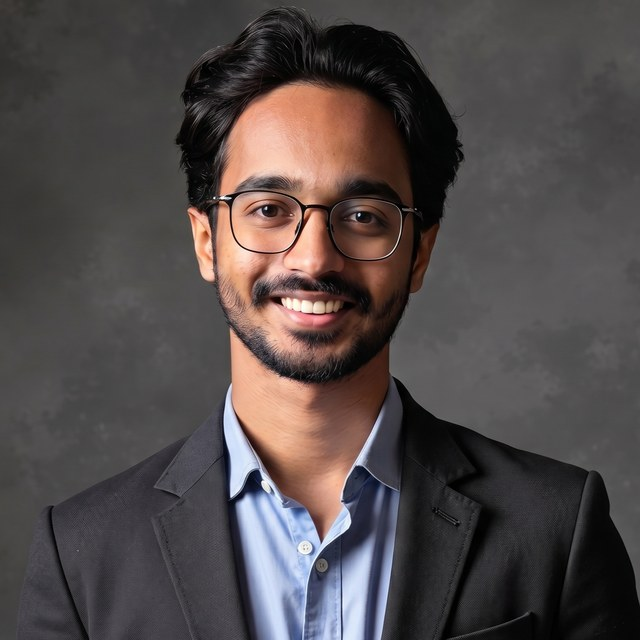
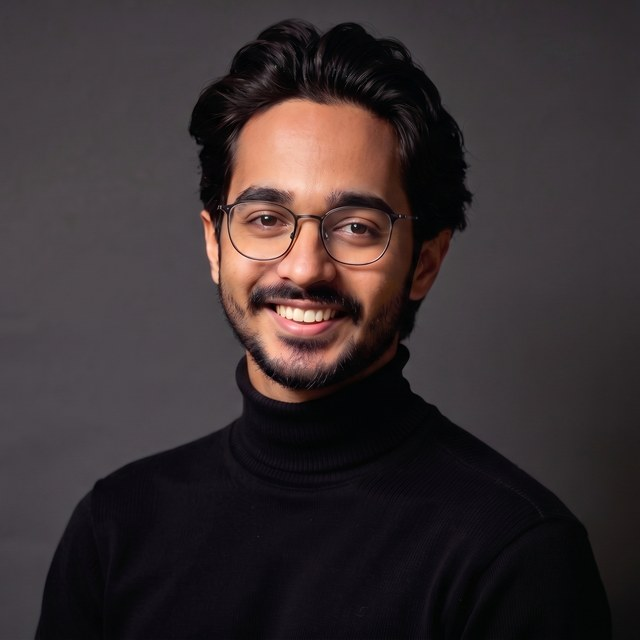
v5.9 profile photo: Joyal-spec 200px circle wrapper (overflow hidden, thin ring), vertically centered; swapped to pic_2 turtleneck portrait

diff --git a/index.html b/index.html
@@ -106,10 +106,11 @@ text-transform:uppercase;transition:border-color .2s ease,transform .15s ease}
 .js.booted .hf{animation:rise .55s ease forwards}
 @keyframes rise{from{opacity:0;transform:translateY(26px)}to{opacity:1;transform:none}}
 /* about: photo + statement + education + certs */
-.aboutgrid{display:grid;grid-template-columns:minmax(220px,330px) 1fr;
-gap:clamp(36px,5vw,76px);align-items:start}
-.pphoto{width:100%;max-width:320px;aspect-ratio:1/1;border-radius:50%;
-object-fit:cover;display:block;margin:0 auto}
+.aboutgrid{display:grid;grid-template-columns:minmax(220px,420px) 1fr;
+gap:clamp(36px,5vw,80px);align-items:center}
+.pwrap{width:200px;height:200px;border-radius:50%;overflow:hidden;
+flex:none;border:2px solid #222;margin:0 auto}
+.pphoto{width:100%;height:100%;object-fit:cover;display:block}
 .lead{font-family:Syne,"Arial Black",sans-serif;font-weight:700;
 font-size:clamp(26px,3.6vw,46px);line-height:1.1;letter-spacing:-.01em}
 .lead em{font-style:normal;color:var(--acc)}
@@ -245,7 +246,6 @@ transition:opacity .6s ease,transform .6s ease}
   html{scroll-behavior:auto}}
 @media (max-width:860px){
   .aboutgrid{grid-template-columns:1fr;gap:36px}
-  .pphoto{max-width:220px}
   .chap{grid-template-columns:1fr;gap:20px;padding:44px 0}
   .chap.alt .ctext{order:1}
   .chap.alt .cvid,.chap.alt .confpanel{order:2}
@@ -278,7 +278,7 @@ transition:opacity .6s ease,transform .6s ease}
 
 <section id="about">
   <div class="aboutgrid">
-    <div class="reveal"><img class="pphoto" src="assets/photo.jpg"
+    <div class="pwrap reveal"><img class="pphoto" src="assets/photo.jpg"
       alt="Jatin Satyam" width="640" height="640"></div>
     <div class="reveal">
       <p class="lead">I build machines that move and <em>think</em>.</p>

diff --git a/dobot.html b/dobot.html
@@ -105,10 +105,11 @@ text-transform:uppercase;transition:border-color .2s ease,transform .15s ease}
 .js.booted .hf{animation:rise .55s ease forwards}
 @keyframes rise{from{opacity:0;transform:translateY(26px)}to{opacity:1;transform:none}}
 /* about: photo + statement + education + certs */
-.aboutgrid{display:grid;grid-template-columns:minmax(220px,330px) 1fr;
-gap:clamp(36px,5vw,76px);align-items:start}
-.pphoto{width:100%;max-width:320px;aspect-ratio:1/1;border-radius:50%;
-object-fit:cover;display:block;margin:0 auto}
+.aboutgrid{display:grid;grid-template-columns:minmax(220px,420px) 1fr;
+gap:clamp(36px,5vw,80px);align-items:center}
+.pwrap{width:200px;height:200px;border-radius:50%;overflow:hidden;
+flex:none;border:2px solid #222;margin:0 auto}
+.pphoto{width:100%;height:100%;object-fit:cover;display:block}
 .lead{font-family:Syne,"Arial Black",sans-serif;font-weight:700;
 font-size:clamp(26px,3.6vw,46px);line-height:1.1;letter-spacing:-.01em}
 .lead em{font-style:normal;color:var(--acc)}
@@ -244,7 +245,6 @@ transition:opacity .6s ease,transform .6s ease}
   html{scroll-behavior:auto}}
 @media (max-width:860px){
   .aboutgrid{grid-template-columns:1fr;gap:36px}
-  .pphoto{max-width:220px}
   .chap{grid-template-columns:1fr;gap:20px;padding:44px 0}
   .chap.alt .ctext{order:1}
   .chap.alt .cvid,.chap.alt .confpanel{order:2}

diff --git a/mambo.html b/mambo.html
@@ -105,10 +105,11 @@ text-transform:uppercase;transition:border-color .2s ease,transform .15s ease}
 .js.booted .hf{animation:rise .55s ease forwards}
 @keyframes rise{from{opacity:0;transform:translateY(26px)}to{opacity:1;transform:none}}
 /* about: photo + statement + education + certs */
-.aboutgrid{display:grid;grid-template-columns:minmax(220px,330px) 1fr;
-gap:clamp(36px,5vw,76px);align-items:start}
-.pphoto{width:100%;max-width:320px;aspect-ratio:1/1;border-radius:50%;
-object-fit:cover;display:block;margin:0 auto}
+.aboutgrid{display:grid;grid-template-columns:minmax(220px,420px) 1fr;
+gap:clamp(36px,5vw,80px);align-items:center}
+.pwrap{width:200px;height:200px;border-radius:50%;overflow:hidden;
+flex:none;border:2px solid #222;margin:0 auto}
+.pphoto{width:100%;height:100%;object-fit:cover;display:block}
 .lead{font-family:Syne,"Arial Black",sans-serif;font-weight:700;
 font-size:clamp(26px,3.6vw,46px);line-height:1.1;letter-spacing:-.01em}
 .lead em{font-style:normal;color:var(--acc)}
@@ -244,7 +245,6 @@ transition:opacity .6s ease,transform .6s ease}
   html{scroll-behavior:auto}}
 @media (max-width:860px){
   .aboutgrid{grid-template-columns:1fr;gap:36px}
-  .pphoto{max-width:220px}
   .chap{grid-template-columns:1fr;gap:20px;padding:44px 0}
   .chap.alt .ctext{order:1}
   .chap.alt .cvid,.chap.alt .confpanel{order:2}

diff --git a/space.html b/space.html
@@ -105,10 +105,11 @@ text-transform:uppercase;transition:border-color .2s ease,transform .15s ease}
 .js.booted .hf{animation:rise .55s ease forwards}
 @keyframes rise{from{opacity:0;transform:translateY(26px)}to{opacity:1;transform:none}}
 /* about: photo + statement + education + certs */
-.aboutgrid{display:grid;grid-template-columns:minmax(220px,330px) 1fr;
-gap:clamp(36px,5vw,76px);align-items:start}
-.pphoto{width:100%;max-width:320px;aspect-ratio:1/1;border-radius:50%;
-object-fit:cover;display:block;margin:0 auto}
+.aboutgrid{display:grid;grid-template-columns:minmax(220px,420px) 1fr;
+gap:clamp(36px,5vw,80px);align-items:center}
+.pwrap{width:200px;height:200px;border-radius:50%;overflow:hidden;
+flex:none;border:2px solid #222;margin:0 auto}
+.pphoto{width:100%;height:100%;object-fit:cover;display:block}
 .lead{font-family:Syne,"Arial Black",sans-serif;font-weight:700;
 font-size:clamp(26px,3.6vw,46px);line-height:1.1;letter-spacing:-.01em}
 .lead em{font-style:normal;color:var(--acc)}
@@ -244,7 +245,6 @@ transition:opacity .6s ease,transform .6s ease}
   html{scroll-behavior:auto}}
 @media (max-width:860px){
   .aboutgrid{grid-template-columns:1fr;gap:36px}
-  .pphoto{max-width:220px}
   .chap{grid-template-columns:1fr;gap:20px;padding:44px 0}
   .chap.alt .ctext{order:1}
   .chap.alt .cvid,.chap.alt .confpanel{order:2}
